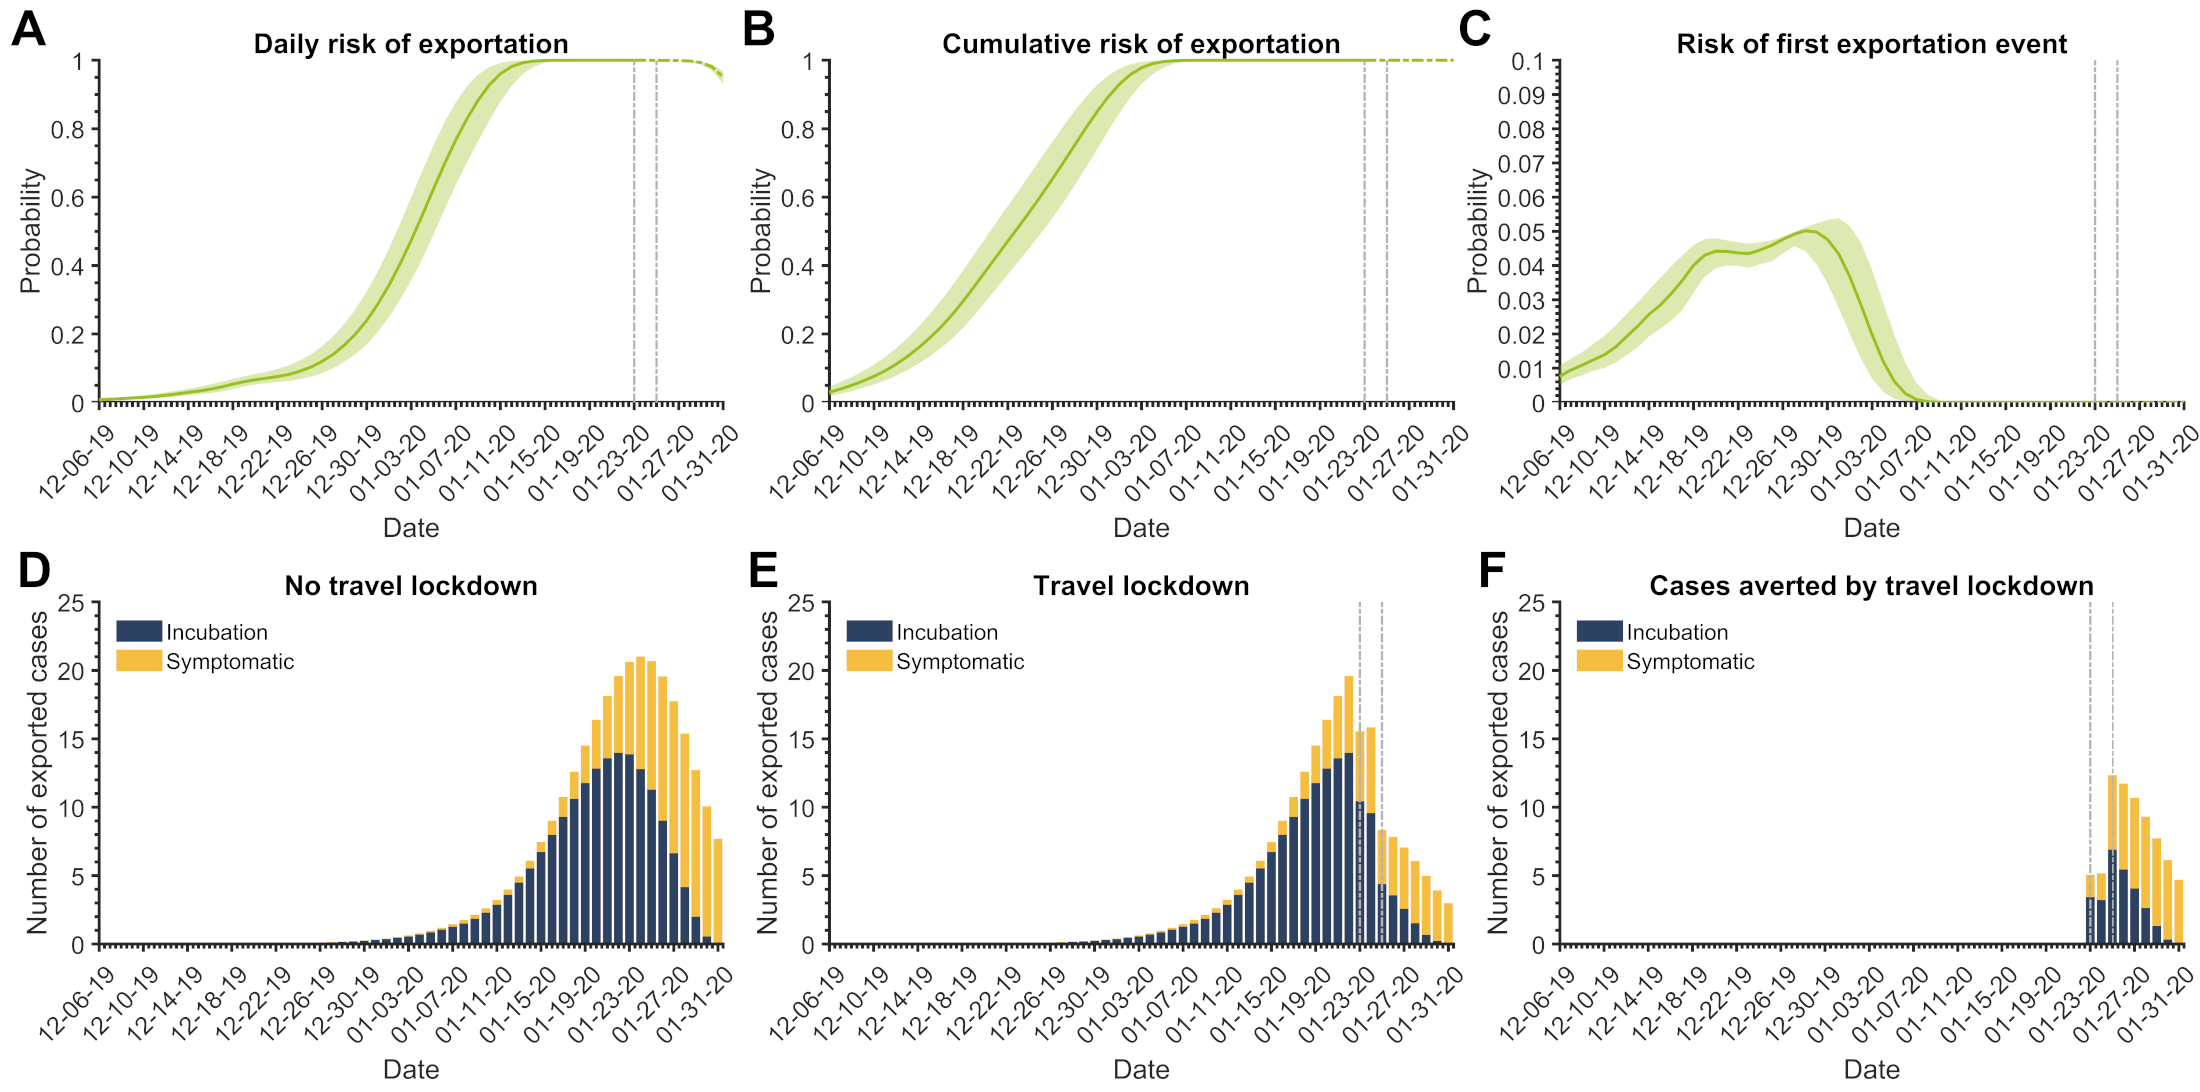
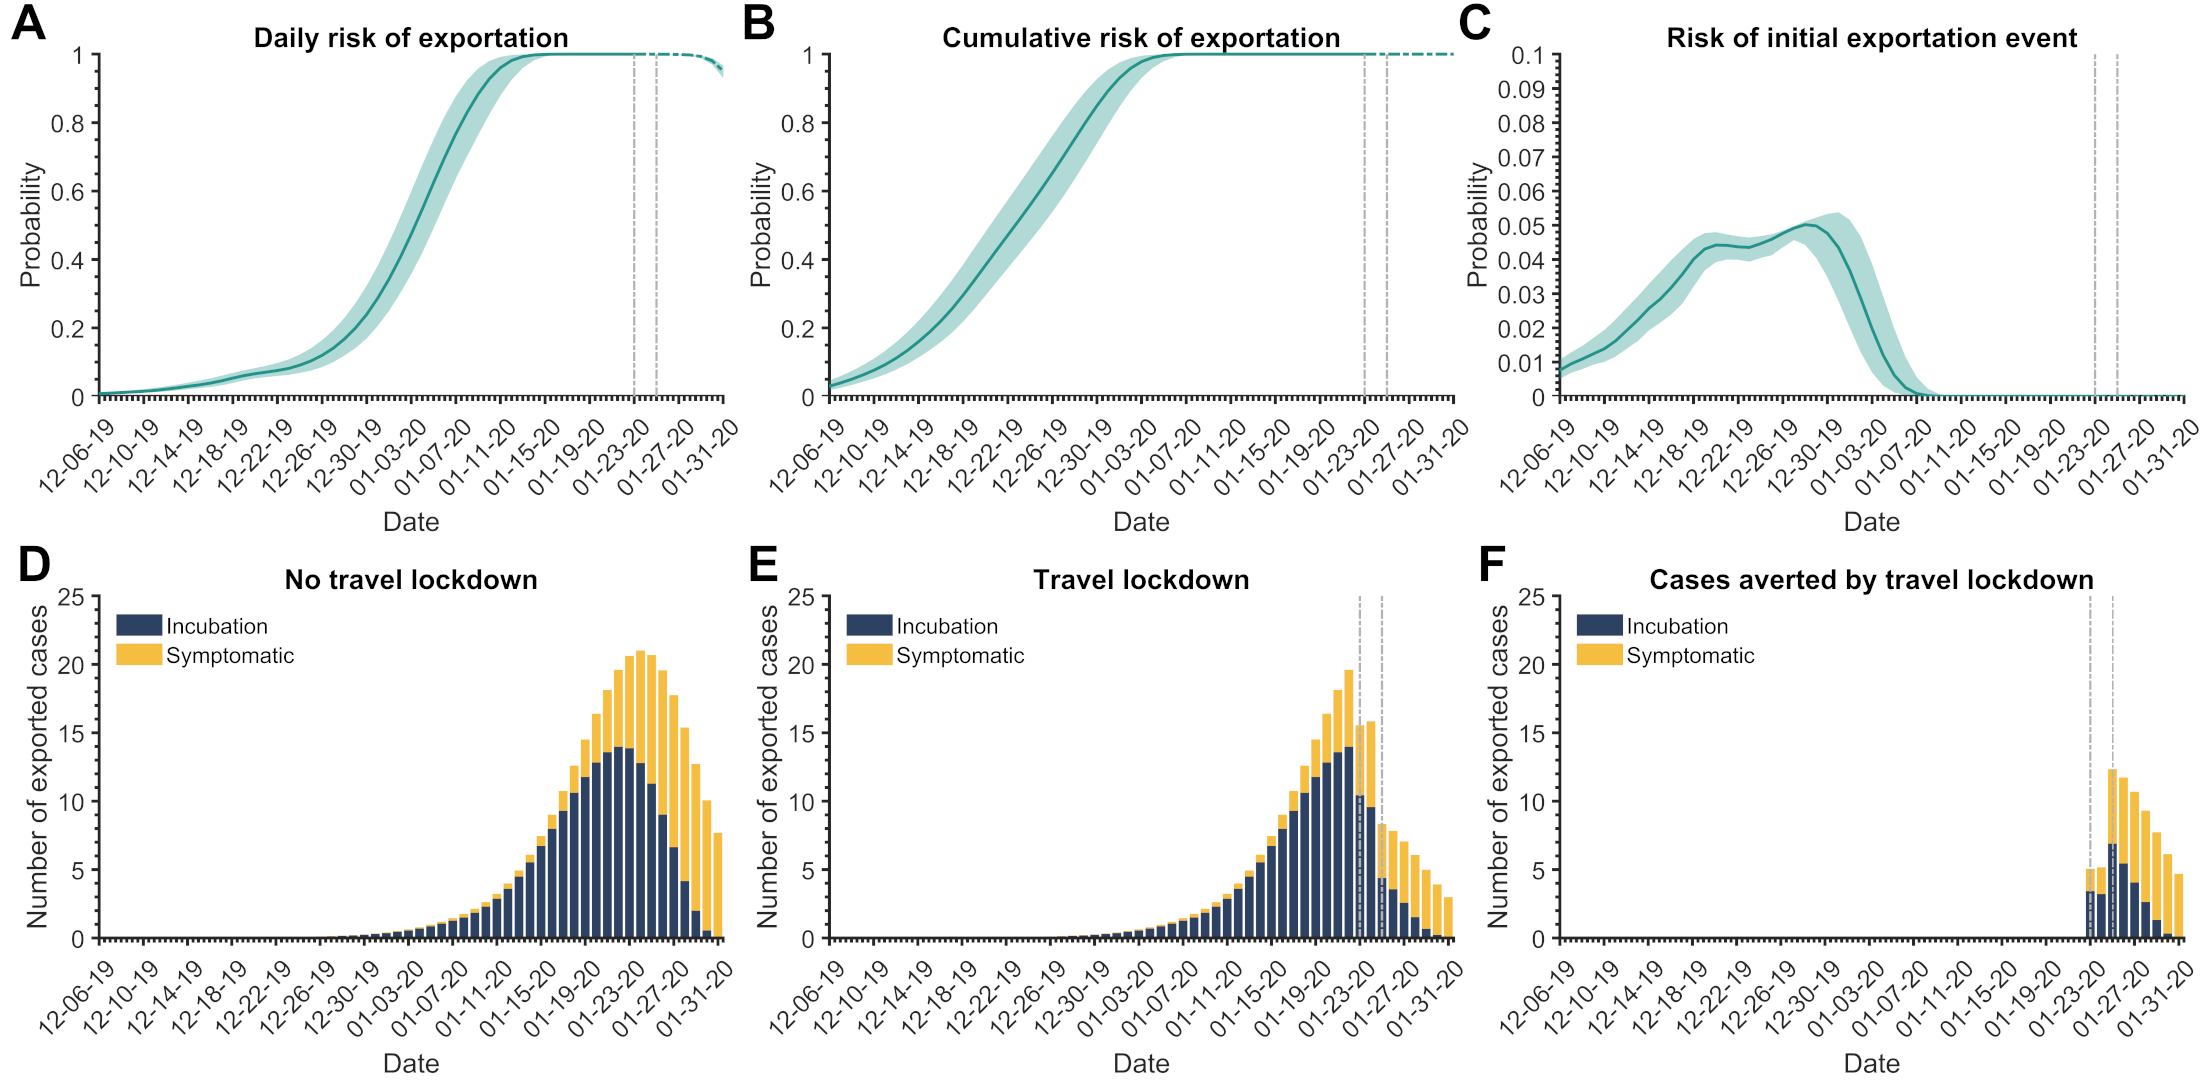
Update_Feb_10_2020

diff --git a/Figure3.m b/Figure3.m
@@ -26,7 +26,7 @@ xlabel('Date','Fontsize',18);
 %title({'Probability of exportation since start of outbreak'},'Fontsize',18);%
 yhh=ylabel('Probability of travel per day','Fontsize',18);
 y=colorbar;
-yhC=ylabel(y,{'Likelihood of first importation event'});
+yhC=ylabel(y,{'Risk of initial importation event','(Probability)'});
 yhC.Rotation=270;
 yhC.Position=[4.452698026384615,mean([[-5 -1]]),0];
 y.Position=[0.913738733818127,0.133738601823708,0.011204481792717,0.79128672745694];
@@ -57,5 +57,5 @@ end
 plot([INDX INDX],[0 4.4*10^(-4)],'-.','color',[0.7 0.7 0.7],'LineWidth',1.5);
 plot([INDX2 INDX2],[0 4.4*10^(-4)],'-.','color',[0.7 0.7 0.7],'LineWidth',1.5);
 [r,p]=corr(Cor);
-text(30.5,4.4*10^(-4)*0.95,['r=' num2str(round(r(1,2),2)) ' (p=' num2str(round(p(1,2),3)) ')'],'Fontsize',16);
+%text(30.5,4.4*10^(-4)*0.95,['r=' num2str(round(r(1,2),2)) ' (p=' num2str(round(p(1,2),3)) ')'],'Fontsize',16);
 clear;

diff --git a/Figure2.m b/Figure2.m
@@ -2,7 +2,7 @@ clear;
 clc;
 CC=[hex2rgb('#2D4262');hex2rgb('#F5BE41');];
 
-CCT=[hex2rgb('#9BC01C')];
+CCT=[hex2rgb('#20948B')];
 
 
 INDX=datenum('01-23-2020')-datenum('12-06-2019')+1; % Need to add one since the week index for Dec 6 would be zero
@@ -160,6 +160,6 @@ set(gca,'LineWidth',2,'tickdir','out','Fontsize',16,'XTick',[1:4:maxE],'XTickLab
 xtickangle(45);
 xlim([1 maxE])
 ylim([0 0.1]);
-title({'Risk of first exportation event'},'Fontsize',18);
+title({'Risk of initial exportation event'},'Fontsize',18);
 text(yhB.Extent(1),max(ylim)*1.1,'C','Fontsize',32,'FontWeight','bold');
 clear;

diff --git a/OutputProb.m b/OutputProb.m
@@ -128,6 +128,7 @@ UT=mean(UMLExTNS(:,end-(EndDateofSim-TB):end),2);
 UNT=mean(UMLExNS(:,end-(EndDateofSim-TB):end),2);
 fprintf(['Cases per day Travel ban (Starting Jan 23): %3.0f (95%% CI: %3.0f - %3.0f) \n'],[T prctile(UT,[2.5 97.5])]);
 fprintf(['Cases per day No travel ban (Starting Jan 23): %3.0f (95%% CI: %3.0f - %3.0f) \n'],[NT prctile(UNT,[2.5 97.5])]);
+fprintf(['Cases per day No travel ban (Starting Jan 23): %3.1f%% (95%% CI: %3.1f%% - %3.1f%%) \n'],100.*[(NT-T)./NT prctile((UNT-UT)./UNT,[2.5 97.5])]);
 
 clear;
 
